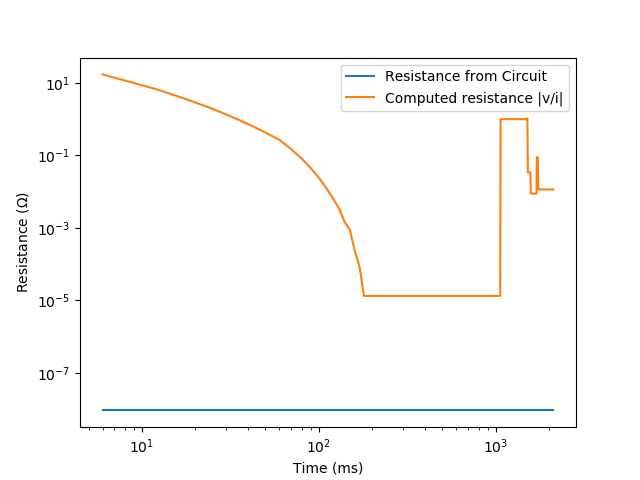
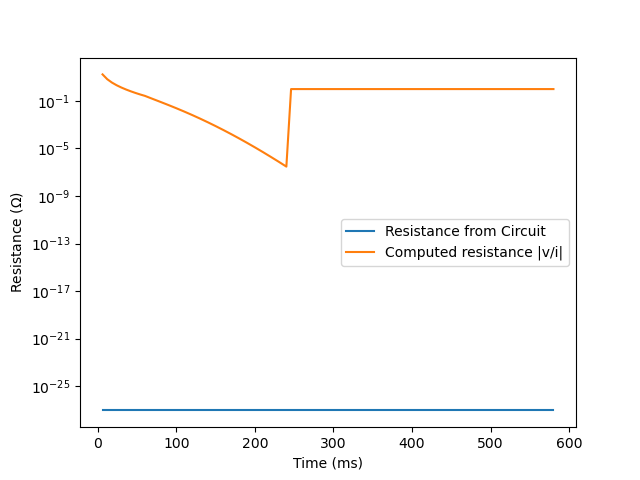
Fix linsys tolerance

diff --git a/SuperconductingCoilQuenchCircuit/Python/plot_resistance.py b/SuperconductingCoilQuenchCircuit/Python/plot_resistance.py
@@ -15,8 +15,8 @@ data['resistance'] = abs(data['v_component(1)']/data['i_component(1)'])
 
 print (data)
 
-plt.loglog(data['time']*1e3, data['r_component(1)'], label='Resistance from Circuit')
-plt.loglog(data['time']*1e3, data['resistance'], label='Computed resistance |v/i|')
+plt.semilogy(data['time']*1e3, data['r_component(1)'], label='Resistance from Circuit')
+plt.semilogy(data['time']*1e3, data['resistance'], label='Computed resistance |v/i|')
 plt.xlabel("Time (ms)")
 plt.ylabel("Resistance ($\Omega$)")
 plt.legend()
